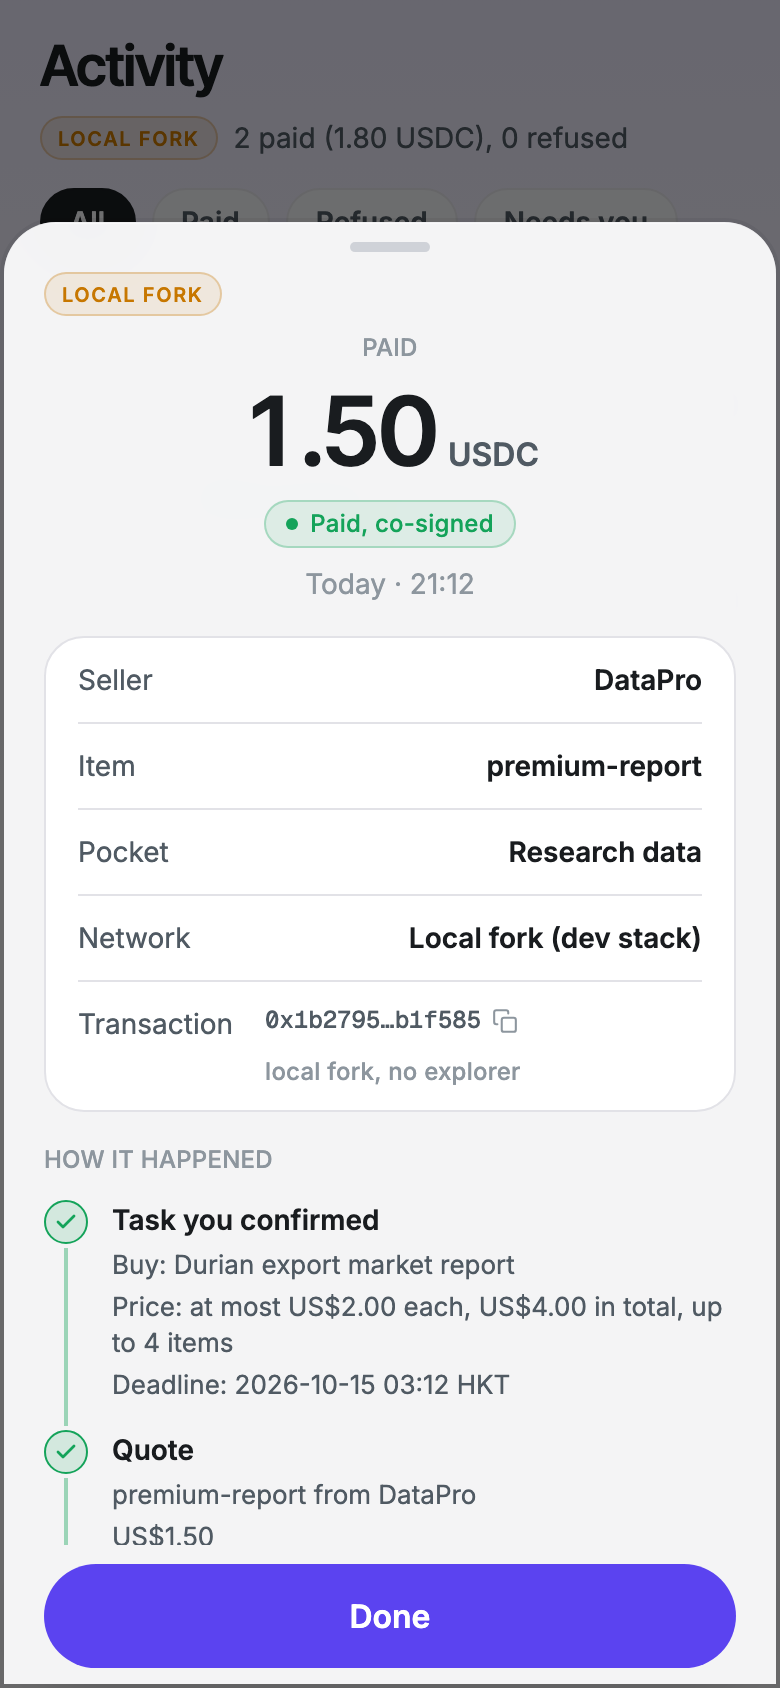
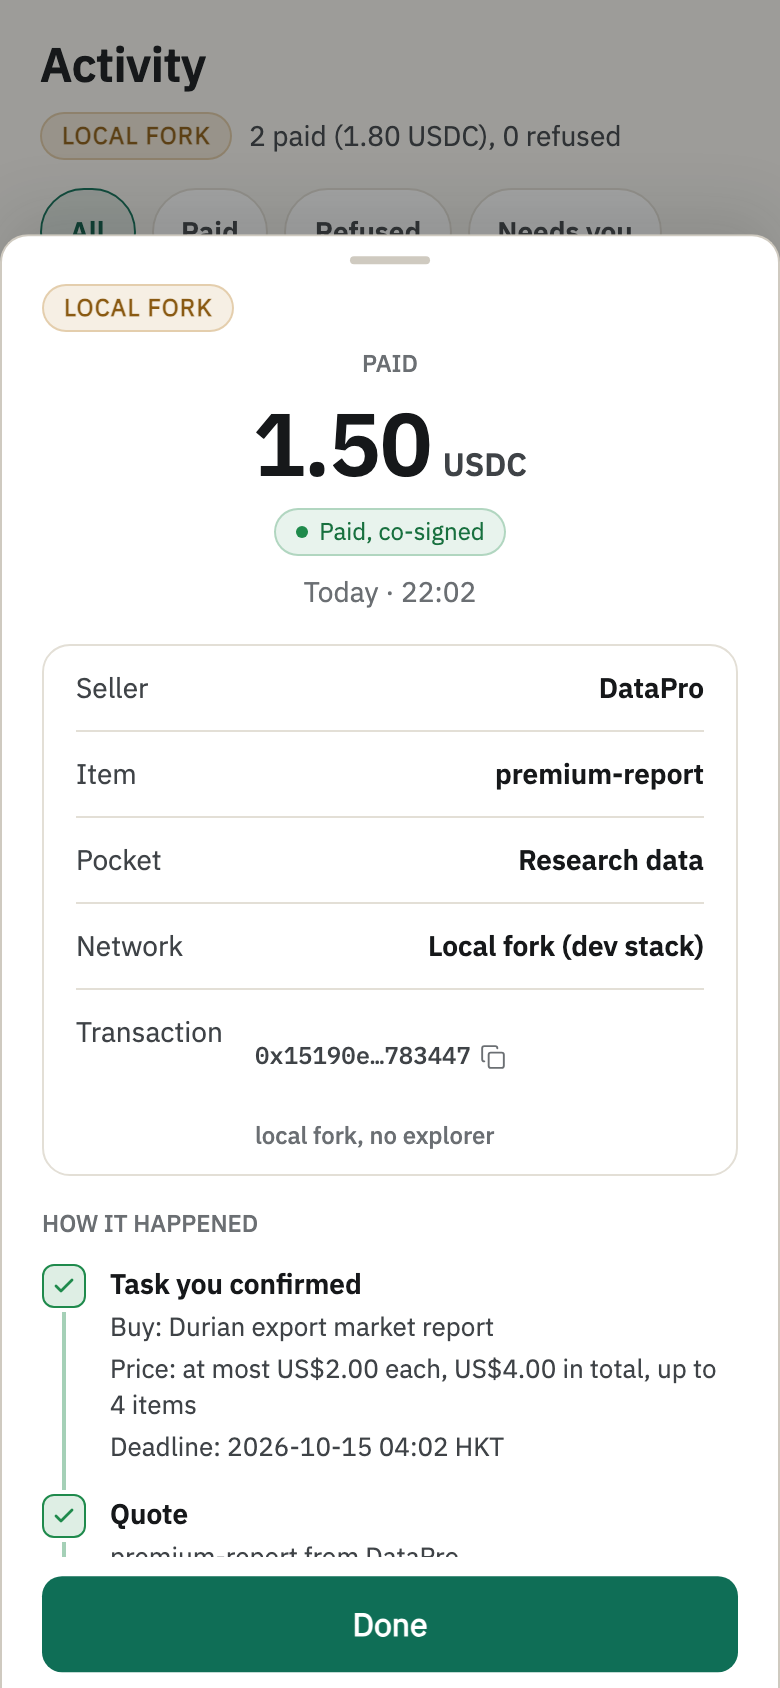
docs(frontend): point to the Ink & jade design system; refresh e2e screenshots

diff --git a/docs/frontend/README.md b/docs/frontend/README.md
@@ -6,11 +6,11 @@ Combined on 14 Oct 2026 on branch `feat/integrate` (local, not pushed). It is th
 
 | Folder | What | Docs |
 | --- | --- | --- |
-| `web/` | Owner and ops console. The team's wallet logic (browser wallet, pocket contract calls, USDC co-sign, intent card, agent question, red-team box) inside the ops-console design: glass top bar, chat with per-turn trace, live trace with filters, pocket pane, approval dialog, Bank / Compliance tab, light and dark | [web.md](web.md) |
-| `mobile/` | Phone app for Expo Go. The team's key, chain and co-sign logic inside the Revolut-style app: glass tab bar, pocket cards, create wizard, slide-to-approve, hold-to-revoke, receipts, Activity, Settings | [mobile.md](mobile.md) |
+| `web/` | Owner and ops console. The team's wallet logic (browser wallet, pocket contract calls, USDC co-sign, intent card, agent question, red-team box) in the Ink & jade design with React Bits components: chat with per-turn trace, live trace with filters, pocket pane, three-step create wizard, approval dialog, Bank / Compliance tab, light and dark | [web.md](web.md) |
+| `mobile/` | Phone app for Expo Go. The team's key, chain and co-sign logic in the Ink & jade design on React Native Reusables + NativeWind: pocket cards, create wizard, slide-to-approve, hold-to-revoke, receipts, Activity, Settings | [mobile.md](mobile.md) |
 | `devstack/` | The team's real server and real contracts on a local fork of Base Sepolia, with a scripted agent instead of Claude. No API key, no faucet, no real money | [devstack/README.md](../../devstack/README.md) |
 
-Design rationale: [research/design-brief.md](research/design-brief.md). Screenshots: [screenshots/](screenshots/).
+Design system: [design-system/chainbrain/MASTER.md](../../design-system/chainbrain/MASTER.md) (Ink & jade, current). Earlier rationale: [research/design-brief.md](research/design-brief.md) (the violet/glass look it describes was replaced on 14 Oct 2026). Screenshots: [screenshots/](screenshots/).
 
 ## How the two builds were combined
 
@@ -57,12 +57,13 @@ Before the end-to-end test: build `web/dist` and the phone web export (`cd mobil
 
 ## Not verified
 
-- **The phone app has not been run on a physical phone or inside Expo Go.** It was tested as a web export and the iOS bundle builds. Haptics, native blur and the iOS 26 Liquid Glass tab bar have not been seen on a device.
+- **The phone app has not been run on a physical phone or inside Expo Go.** It was tested as a web export and the iOS bundle builds. Haptics and native gestures have not been seen on a device.
 - MetaMask on the real Base Sepolia, and the phone's key on the real Base Sepolia, were not run here (no funded wallets, no deployed factory yet). Those paths are the team's code, unchanged in behaviour.
 - The agent in the dev stack is scripted. The real Claude agent needs `ANTHROPIC_API_KEY` and the team's server setup.
 
 ## Known gaps
 
+- The combined e2e run can flake: when the web and phone browsers pay DataLite in the same second, the dev stack's settlement can return HTTP 402 (`SETTLEMENT_FAILED`) for one of them. Seen once in two runs after the Ink & jade redesign; `--phone-only` and a re-run both passed (24/24, 70/70). It is a dev stack timing issue, not UI.
 - Scene 5's forced transfer reverts on-chain, but the server publishes no event for it, so neither app shows it. Show it on BaseScan (real chain) or with `pnpm --dir devstack force-transfer <pocket>` output.
 - The server keeps events in memory only, so the Bank tab and Activity show what happened since the server started.
 - Web: pockets are listed from the browser's own list; there is no discovery from chain logs. The phone has "Add an existing pocket by address"; the web does not yet.

diff --git a/docs/frontend/mobile.md b/docs/frontend/mobile.md
@@ -35,4 +35,4 @@ Home (agent funds, pockets, approvals banner), Agent (chat, per-turn trace, inte
 
 ## Not verified
 
-Not run on a physical phone or in Expo Go itself (web export and iOS Hermes bundle only). iOS 26 Liquid Glass path is untested; the blur fallback is what the screenshots show.
+Not run on a physical phone or in Expo Go itself (web export and iOS Hermes bundle only). The app no longer uses blur or Liquid Glass (Ink & jade design, solid surfaces).
